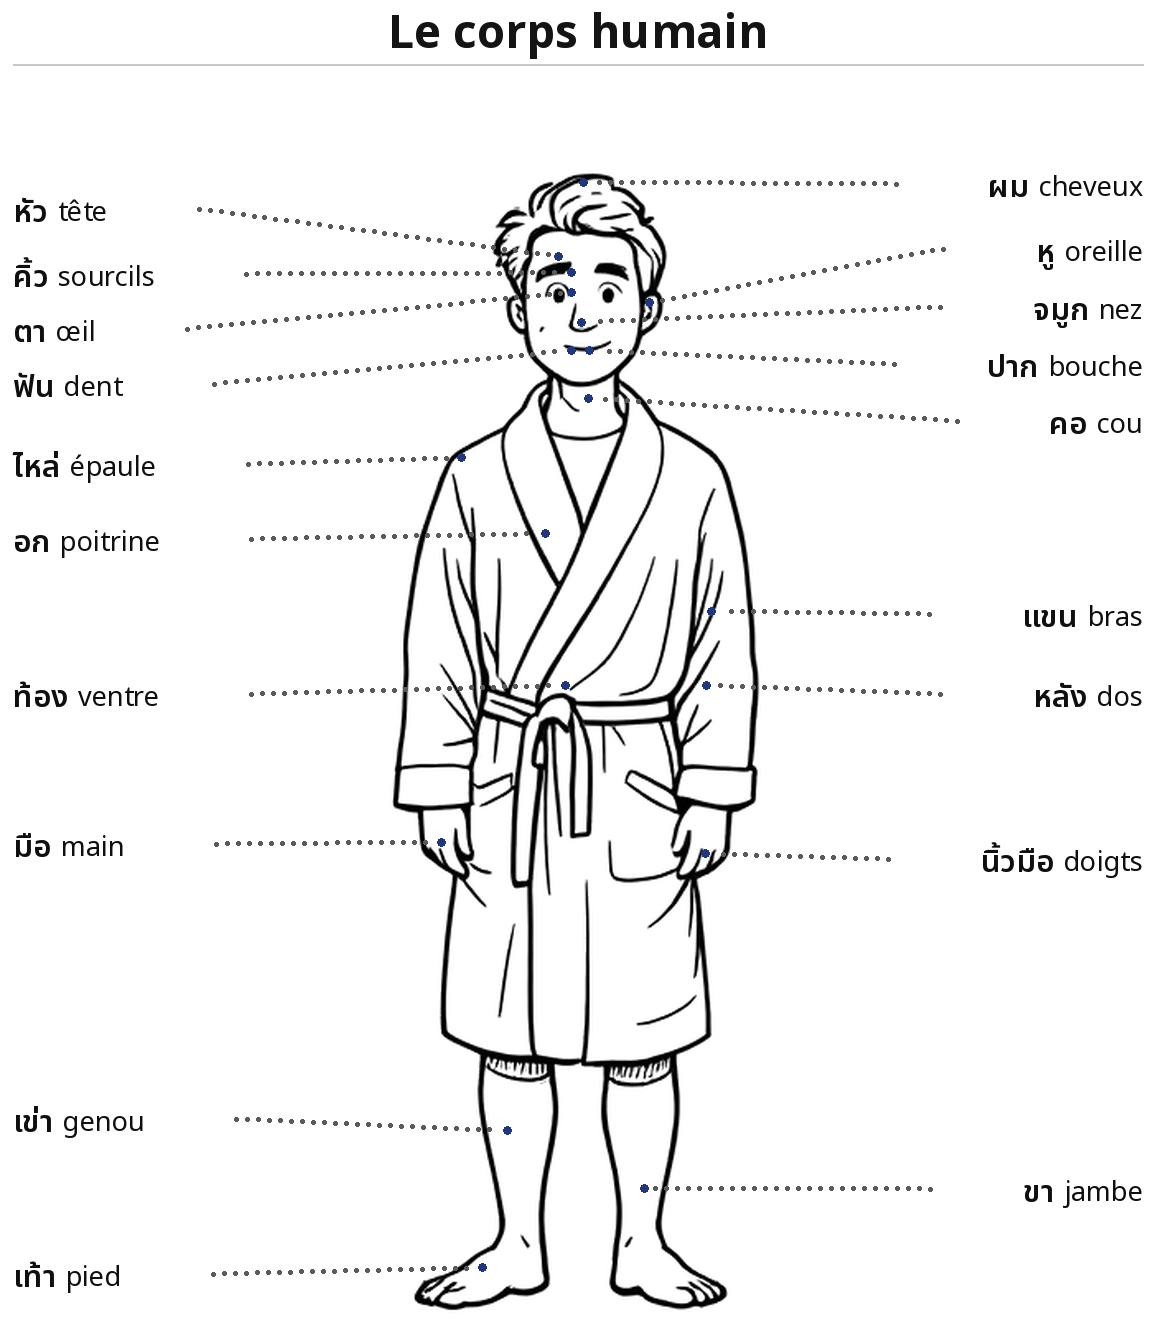
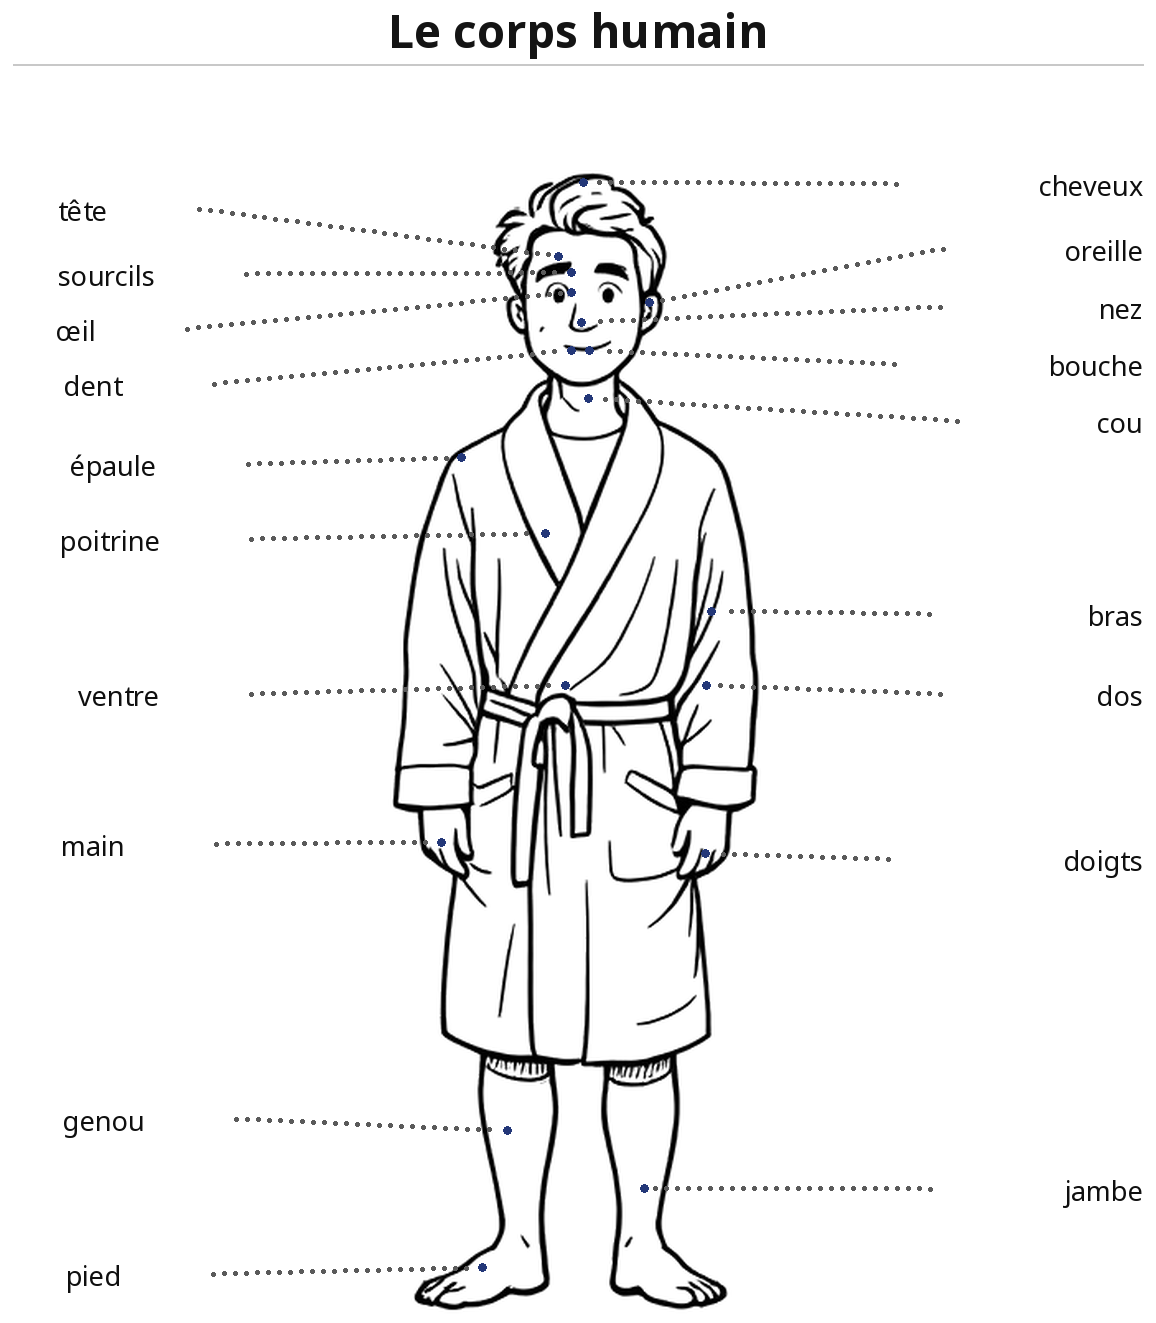
corps.html: the plate's Thai words are now live text, not pixels
The 19 Thai labels were erased from pics/corps.png and are drawn as HTML
text instead, so they inherit the page's own font stack -- the same Thai
face the vocabulary tables fall back to on any device.

- Each word is right-anchored where the printed one ended and sits on its
  original baseline, so the pairing with the French label is preserved.
- Sizes are in cqw (percent of the plate width), so the words scale with
  the drawing on mobile.
- French labels stay part of the scan; body.html untouched, its English
  plate has no Thai on it.

Claude-Session: https://claude.ai/code/session_01L78Kidu29Q5mFkGdX3ntgw

diff --git a/kie/corps.html b/kie/corps.html
@@ -287,6 +287,16 @@
   from{transform:translate(-50%,-50%) scale(1)}
   to{transform:translate(-50%,-50%) scale(1.18)}
 }
+/* 22 Aug 2026 — the Thai words are no longer part of the scan: they were
+   erased from the PNG and are drawn here as real text, so they use the page's
+   own font stack (and therefore the same Thai face as the vocabulary tables
+   below, whatever the device falls back to). Sizes are in cqw = percent of the
+   plate width, so the words scale with the drawing; `right` anchors each word
+   to where the printed one ended, and top is its baseline. */
+.th-plate{container-type:inline-size}
+.th-thai{position:absolute; transform:translateY(-0.80em); white-space:nowrap;
+  font-size:2.7cqw; font-weight:600; line-height:1; color:#1a1a1a;
+  pointer-events:none; user-select:none}
 .th-readout{font-family:'Source Sans 3',sans-serif; font-size:.92rem; line-height:1.5;
   color:#2c3e50; margin-top:10px; min-height:1.5em}
 .th-readout .w{font-size:1.15rem; font-weight:600; color:#1a7a6e}
@@ -339,6 +349,25 @@
     data-say="ขา" data-ph="(kha) kʰǎː" data-tr="la jambe" title="ขา · (kha) kʰǎː — la jambe" aria-label="Écouter : ขา, la jambe"></button>
   <button type="button" class="th-hot" style="left:14.36%;top:96.30%"
     data-say="เท้า" data-ph="(Thǎo) tʰâːw" data-tr="le pied" title="เท้า · (Thǎo) tʰâːw — le pied" aria-label="Écouter : เท้า, le pied"></button>
+    <span class="th-thai" style="right:11.16%;top:14.89%">ผม</span>
+    <span class="th-thai" style="right:96.02%;top:16.78%">หัว</span>
+    <span class="th-thai" style="right:8.91%;top:20.41%">หู</span>
+    <span class="th-thai" style="right:95.93%;top:21.69%">คิ้ว</span>
+    <span class="th-thai" style="right:5.97%;top:24.79%">จมูก</span>
+    <span class="th-thai" style="right:96.19%;top:25.85%">ตา</span>
+    <span class="th-thai" style="right:10.38%;top:28.50%">ปาก</span>
+    <span class="th-thai" style="right:95.50%;top:30.01%">ฟัน</span>
+    <span class="th-thai" style="right:6.06%;top:32.80%">คอ</span>
+    <span class="th-thai" style="right:94.98%;top:36.05%">ไหล่</span>
+    <span class="th-thai" style="right:95.85%;top:41.72%">อก</span>
+    <span class="th-thai" style="right:7.01%;top:47.39%">แขน</span>
+    <span class="th-thai" style="right:94.20%;top:53.44%">ท้อง</span>
+    <span class="th-thai" style="right:6.06%;top:53.44%">หลัง</span>
+    <span class="th-thai" style="right:95.67%;top:64.78%">มือ</span>
+    <span class="th-thai" style="right:8.91%;top:65.91%">นิ้วมือ</span>
+    <span class="th-thai" style="right:95.59%;top:85.56%">เข่า</span>
+    <span class="th-thai" style="right:9.00%;top:90.85%">ขา</span>
+    <span class="th-thai" style="right:95.33%;top:97.28%">เท้า</span>
   </div>
   <script>
 (function(){
